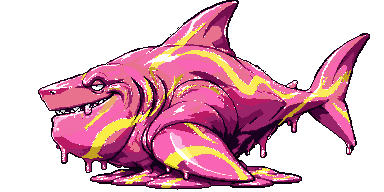
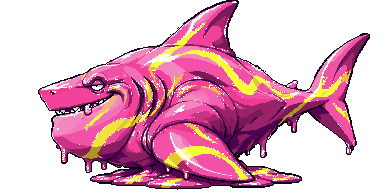
Color transfer instead of palette replacement (keeps shading); belly inset view and splat-only underground pattern
Claude-Session: https://claude.ai/code/session_016eaBthCvKzWp812yLXmusx

diff --git a/tools/palette_lock.py b/tools/palette_lock.py
@@ -1,10 +1,16 @@
-"""ペンキ系キャラの色をペンキワニの通常ドット（assets/wani_idle.png）に合わせる。
-ピンク・黄色・暗い輪郭の3種類に分け、同じ種類の中で「明るさの順位（何%目に明るいか）」が同じ色に置き換える。
-生成された絵は全体に明るい・暗いのクセがあるので、絶対的な明るさではなく順位で合わせると、元の色の配分になる。
-それ以外の色（白目、灰色、紫など）はそのまま残す。生成した絵を組み込む前に必ず通す。
+"""ペンキ系キャラの色味をペンキワニの通常ドット（assets/wani_idle.png）に寄せる。
+
+前のやり方（ワニの色に1色ずつ置き換える）は色数が減って、影が濃く・線が荒くなった。
+今のやり方は色を置き換えず、「ピンク」「黄色」それぞれの色相・彩度・明るさの平均とばらつきを
+ワニに合わせて全体をずらすだけ（色の転写）。生成された絵の階調や描き込みはそのまま残る。
+暗い輪郭やペンキ以外の色（白目・灰色・紫など）には触らない。
+
 使い方: python3 tools/palette_lock.py 入力.png [出力.png]   （出力を省略すると上書き）
 """
+import colorsys
+import math
 import sys
+
 from PIL import Image
 
 MASTER = "assets/wani_idle.png"
@@ -19,50 +25,67 @@ def kind(c):
     mx, mn = max(c), min(c)
     sat = (mx - mn) / mx if mx else 0.0
     if lum(c) < 40:
-        return "dark"
+        return None   # 輪郭は触らない
     if r > 150 and g > 120 and b < 140 and g > b + 40:
         return "yellow"
     if r > g + 30 and r >= b and sat > 0.25:
         return "pink"
-    return None   # ペンキ以外の色は触らない
+    return None
 
 
-def _weighted(im):
-    """種類ごとに (明るさ, 色, 画素数) を明るい順に並べ、累積の割合を付ける"""
-    counts = {"pink": {}, "yellow": {}, "dark": {}}
+def _stats(im):
+    """種類ごとに、色相（円周の平均）・彩度・明るさの平均と標準偏差を求める"""
+    acc = {}
     for p in im.getdata():
-        if p[3]:
-            k = kind(p[:3])
-            if k:
-                counts[k][p[:3]] = counts[k].get(p[:3], 0) + 1
+        if not p[3]:
+            continue
+        k = kind(p[:3])
+        if not k:
+            continue
+        h, s, v = colorsys.rgb_to_hsv(*(x / 255.0 for x in p[:3]))
+        a = acc.setdefault(k, {"hx": 0.0, "hy": 0.0, "s": [], "v": []})
+        a["hx"] += math.cos(h * 2 * math.pi)
+        a["hy"] += math.sin(h * 2 * math.pi)
+        a["s"].append(s)
+        a["v"].append(v)
     out = {}
-    for k, d in counts.items():
-        cols = sorted(d.items(), key=lambda kv: lum(kv[0]))
-        total = sum(n for _, n in cols) or 1
-        acc, lst = 0, []
-        for c, n in cols:
-            lst.append((c, (acc + n / 2) / total))
-            acc += n
-        out[k] = lst
+    for k, a in acc.items():
+        def ms(xs):
+            m = sum(xs) / len(xs)
+            return m, max((sum((x - m) ** 2 for x in xs) / len(xs)) ** 0.5, 1e-3)
+        out[k] = {"h": (math.atan2(a["hy"], a["hx"]) / (2 * math.pi)) % 1.0, "s": ms(a["s"]), "v": ms(a["v"])}
     return out
 
 
-def lock(src, dst=None):
-    master = _weighted(Image.open(MASTER).convert("RGBA"))
+def lock(src, dst=None, strength=1.0):
+    master = _stats(Image.open(MASTER).convert("RGBA"))
     im = Image.open(src).convert("RGBA")
-    mine = _weighted(im)
-    table = {}
-    for k, lst in mine.items():
-        if not master[k]:
-            continue
-        for c, q in lst:
-            table[c] = min(master[k], key=lambda mc: abs(mc[1] - q))[0]
+    mine = _stats(im)
     px = im.load()
+    cache = {}
     for y in range(im.height):
         for x in range(im.width):
             r, g, b, a = px[x, y]
-            if a and (r, g, b) in table:
-                px[x, y] = table[(r, g, b)] + (a,)
+            if not a:
+                continue
+            c = (r, g, b)
+            if c not in cache:
+                k = kind(c)
+                if not k or k not in master or k not in mine:
+                    cache[c] = c
+                else:
+                    h, s, v = colorsys.rgb_to_hsv(r / 255.0, g / 255.0, b / 255.0)
+                    M, S = master[k], mine[k]
+                    dh = ((M["h"] - S["h"] + 0.5) % 1.0) - 0.5
+                    h2 = (h + dh * strength) % 1.0
+                    # 平均とばらつきを合わせる（ばらつきは縮めすぎない＝階調を残す）
+                    s2 = M["s"][0] + (s - S["s"][0]) * max(M["s"][1] / S["s"][1], 0.75)
+                    v2 = M["v"][0] + (v - S["v"][0]) * max(M["v"][1] / S["v"][1], 0.75)
+                    s2 = s + (s2 - s) * strength
+                    v2 = v + (v2 - v) * strength
+                    rr, gg, bb = colorsys.hsv_to_rgb(h2, min(max(s2, 0.0), 1.0), min(max(v2, 0.0), 1.0))
+                    cache[c] = (round(rr * 255), round(gg * 255), round(bb * 255))
+            px[x, y] = cache[c] + (a,)
     im.save(dst or src)
 
 
